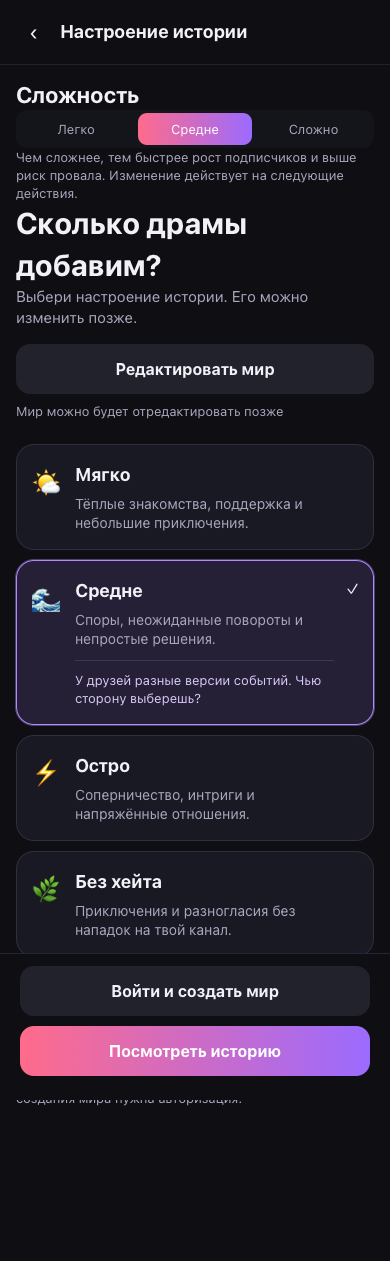
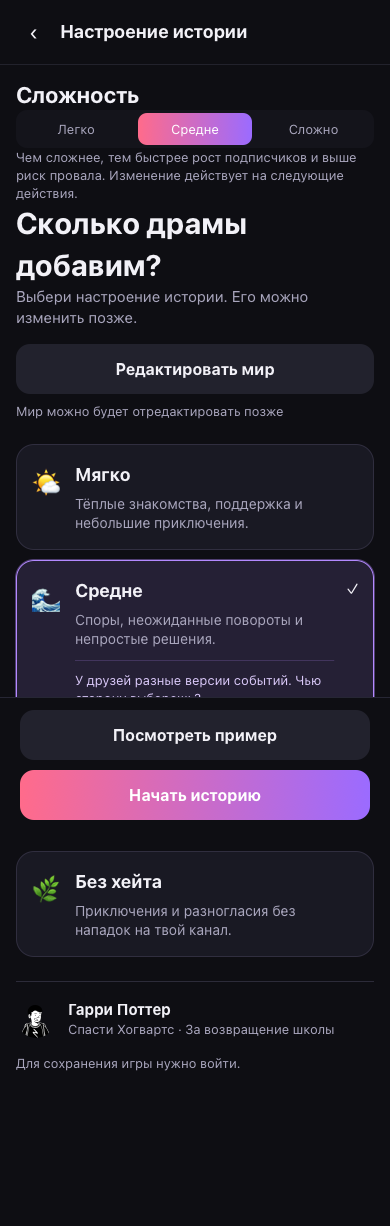
fix(frontend): make starting story the primary action #205

diff --git a/frontend/src/screens/worldWizard.tsx b/frontend/src/screens/worldWizard.tsx
@@ -81,7 +81,8 @@ function StarsForm({ draft, quick = false }: { draft: NonNullable<ReturnType<typ
   const loginRequired = !draft.previewOnly && !hasAccess() && !needsRegistration()
   const save = async () => {
     if (saving || uncertain) return
-    if (draft.previewOnly || loginRequired) { nav.push('05-7c_world_preview'); return }
+    if (draft.previewOnly) { nav.push('05-7c_world_preview'); return }
+    if (loginRequired) { loginFromWorldPreview(d.templateId); return }
     setSaving(true); setError('')
     let creatingWorld = false
     try {
@@ -99,7 +100,7 @@ function StarsForm({ draft, quick = false }: { draft: NonNullable<ReturnType<typ
   if (quick) return <div className="screen no-tab"><TopBar title="Настроение истории" onBack={saving ? undefined : nav.back} /><div className="pad"><DramaPicker definition={d} beforeOptions={<div className="drama-world-edit"><Button secondary onClick={() => nav.push('05-12_world_advanced')}>Редактировать мир</Button><p className="small muted">Мир можно будет отредактировать позже</p></div>} />
     <div className="quick-summary"><Avatar seed={d.avatar} avatarStyle={d.avatarStyle} profile={{ address: draft.address, ageBand: draft.ageBand, personalizeAvatar: draft.personalizeAvatar }} /><div><b>{d.name}</b><div className="small muted">{d.title} · {d.role}</div></div></div>
     {draft.previewOnly && <p className="small prototype-note">DEV-прототип: дальше — пример ленты, без создания мира в базе.</p>}
-    {loginRequired && <p className="small muted">Можно посмотреть пример истории без входа. Для создания мира нужна авторизация.</p>}{!loginRequired && error && <p role="alert">{error}</p>}{uncertain && <Button onClick={() => nav.replace('01-3_world')}>Проверить список миров</Button>}
-  </div><BottomCTA main={saving ? 'Сохраняем…' : loginRequired || draft.previewOnly ? 'Посмотреть историю' : draft.editingId ? 'Сохранить изменения' : 'Начать историю'} disabled={saving || uncertain || !d.voice.trim() || d.stars.length === 0} onMain={save} second={loginRequired ? 'Войти и создать мир' : undefined} onSecond={() => loginFromWorldPreview(d.templateId)} /></div>
+    {loginRequired && <p className="small muted">Для сохранения игры нужно войти.</p>}{!loginRequired && error && <p role="alert">{error}</p>}{uncertain && <Button onClick={() => nav.replace('01-3_world')}>Проверить список миров</Button>}
+  </div><BottomCTA main={saving ? 'Сохраняем…' : draft.previewOnly ? 'Посмотреть пример' : draft.editingId ? 'Сохранить изменения' : 'Начать историю'} disabled={saving || uncertain || !d.voice.trim() || d.stars.length === 0} onMain={save} second={!draft.previewOnly ? 'Посмотреть пример' : undefined} secondDisabled={saving || uncertain} onSecond={() => nav.push('05-7c_world_preview')} /></div>
   return <WorldAdvanced draft={draft} saving={saving} error={error} uncertain={uncertain} onSave={save} onCheck={() => nav.replace('01-3_world')} />
 }

diff --git a/frontend/src/screens/worldQuick.tsx b/frontend/src/screens/worldQuick.tsx
@@ -1,5 +1,4 @@
-import { hasAccess, needsRegistration } from '../api/auth'
-import { clearLandingWorld, loginFromWorldPreview } from '../app/landing/experiment'
+import { clearLandingWorld } from '../app/landing/experiment'
 import { useState, type ReactNode } from 'react'
 import { useStore } from '../app/store'
 import { avatarPersonalization } from '../app/avatarPersonalization'
@@ -120,5 +119,5 @@ export function WorldPrototypePreview() {
     <h2>Завязка истории</h2><Card><div className="row"><Avatar seed={first?.avatarSeed} avatarStyle={d.avatarStyle} mode="default" /><div><b>{first?.name}</b><div className="small muted">{first?.role}</div></div></div><p>{d.firstContext}</p><div className="small muted">♡ 12　💬 2</div></Card>
     <p className="small muted">Это пример начала истории. Мир не сохраняется, посты не публикуются.</p>
     <button className="text-link" onClick={() => nav.push('05-12_world_advanced')}>Посмотреть расширенные настройки →</button>
-  </div><BottomCTA main="Вернуться к настройке" onMain={() => nav.back()} second={!hasAccess() && !needsRegistration() ? 'Войти и создать мир' : undefined} onSecond={() => loginFromWorldPreview(d.templateId)} /></div>
+  </div><BottomCTA main="Вернуться к настройке" onMain={() => nav.back()} /></div>
 }

diff --git a/docs/content-review/save-hogwarts.md b/docs/content-review/save-hogwarts.md
@@ -30,3 +30,5 @@
 Предпросмотр через `?screen=...` не авторизует посетителя. В конце настройки можно открыть явно помеченный пример истории без входа и сохранения. Создание настоящего мира — отдельное действие со входом; новый аккаунт затем проходит возраст и согласие.
 
 Видимые биографии сокращены до характера и интересов героев. Редакторские оговорки о подаче бедности и полномочиях совета не показываются как биография. Отдельный фильтр перефразирования или новый модерационный фильтр не добавлялся; действующая модерация backend сохраняется.
+
+Основная кнопка настройки — яркая «Начать историю». «Посмотреть пример» — вторичное действие без сохранения. Без авторизации показано «Для сохранения игры нужно войти»: основная кнопка запускает вход с сохранением выбранного мира, а после подтверждения личности продолжается обычный онбординг. В примере кнопка возвращает к настройкам, без дублирующего неоднозначного «Войти и создать мир».
